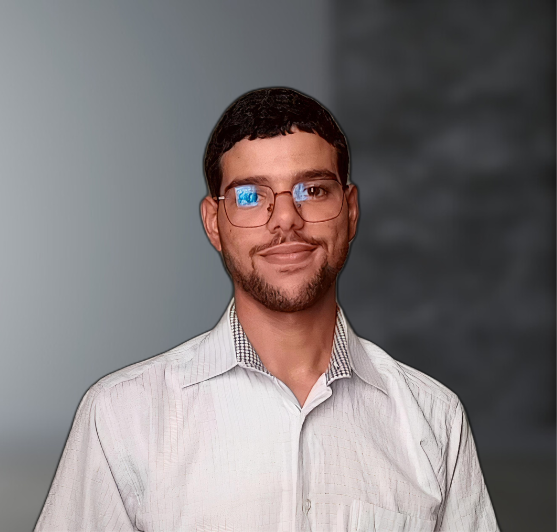
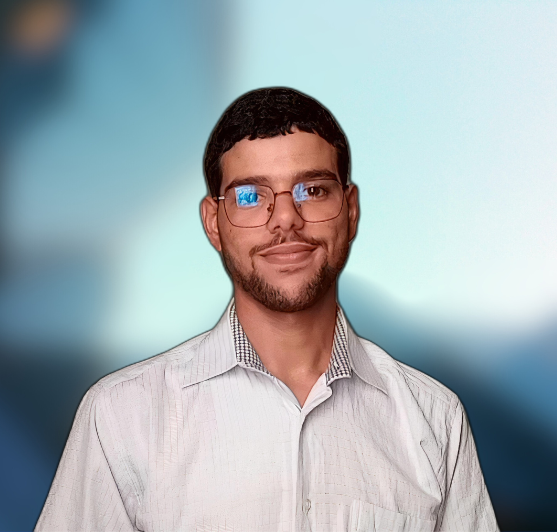
some changes

diff --git a/src/components/Projects.jsx b/src/components/Projects.jsx
@@ -1,9 +1,67 @@
-import React from 'react'
+import React from "react";
+
+const projects = [
+  {
+    title: "AI Desktop Assistant",
+    description: "Voice-enabled AI assistant built with Python, PyQt, and DeepSeek API.",
+    tech: ["Python", "PyQt5", "SpeechRecognition", "TTS"],
+  },
+  {
+    title: "Real Estate Web App",
+    description: "Full-stack platform for listing, searching, and chatting about properties.",
+    tech: ["React", "Laravel", "Node.js", "MongoDB"],
+  },
+  {
+    title: "E-Commerce Admin Dashboard",
+    description: "Dynamic dashboard to manage content, users, and orders with charts.",
+    tech: ["React", "Laravel", "Inertia.js", "Tailwind CSS"],
+  },
+  {
+    title: "Code Collaboration Platform",
+    description: "Real-time collaborative coding interface with Git integration and AI help.",
+    tech: ["React", "Python", "Socket.io", "Framer Motion"],
+  },
+  {
+    title: "Background Remover Tool",
+    description: "Drag-and-drop tool for removing image backgrounds using Python.",
+    tech: ["Python", "rembg", "Flask", "React"],
+  },
+  {
+    title: "Chat App with Laravel Auth",
+    description: "MERN stack chat app where Laravel handles authentication.",
+    tech: ["React", "Express", "MongoDB", "Laravel"],
+  },
+];
 
 function Projects() {
   return (
-    <div className='min-h-screen'>Projects</div>
-  )
+    <div className="relative min-h-screen px-6  bg-white overflow-hidden">
+      <div className="relative z-10 max-w-6xl mx-auto">
+        
+        <div className="grid grid-cols-1 md:grid-cols-2 lg:grid-cols-3 gap-8">
+          {projects.map((project, index) => (
+            <div
+              key={index}
+              className="bg-white rounded-2xl shadow-lg p-6 border border-red-100 hover:shadow-blue-300 transition duration-300"
+            >
+              <h3 className="text-xl font-semibold text-blue-600 mb-2">{project.title}</h3>
+              <p className="text-gray-700 mb-4">{project.description}</p>
+              <div className="flex flex-wrap gap-2">
+                {project.tech.map((tech, i) => (
+                  <span
+                    key={i}
+                    className="text-xs px-2 py-1 bg-blue-100 text-blue-600 rounded-full"
+                  >
+                    {tech}
+                  </span>
+                ))}
+              </div>
+            </div>
+          ))}
+        </div>
+      </div>
+    </div>
+  );
 }
 
-export default Projects
+export default Projects;

diff --git a/src/App.jsx b/src/App.jsx
@@ -8,15 +8,12 @@ import { skills_1 } from "./constants/skills_1.js";
 import { skills_2 } from "./constants/skills_2.js";
 import FadeInWhenVisible from "./components/FadeInWhenVisible";
 import Projects from "./components/Projects.jsx";
+import AnimatedBg from "./assets/AnimatedBg.jsx";
 
 function App() {
   return (
-    <div
-      className="relative min-h-screen w-full bg-fixed bg-cover bg-center"
-      style={{
-        backgroundImage: "url('/bg.jpg')",
-      }}
-    >
+    <div className="relative min-h-screen w-full bg-fixed bg-cover bg-center">
+      <AnimatedBg />
       <header className="fixed top-0 right-0 bg-transparent z-50 w-full">
         <NavBar />
       </header>
@@ -34,7 +31,7 @@ function App() {
       </main>
 
       <FadeInWhenVisible delay={0.3}>
-        <section className="py-4 w-full bg-white">
+        <section className="py-4 w-full ">
           <div className="h-1 w-8 bg-gray-300 mx-auto mb-6"></div>
           <h2 className="text-2xl font-bold mb-6 text-center">My Skills</h2>
           <Skills skills={skills_1} dir={true} />
@@ -42,9 +39,13 @@ function App() {
         </section>
       </FadeInWhenVisible>
       <FadeInWhenVisible delay={0.3}>
-        <Projects/>
+        <section className="py-8 w-full ">
+          <div className="h-1 w-8 bg-gray-300 mx-auto mb-6"></div>
+          <h2 className="text-2xl font-bold mb-6 text-center">My Projects</h2>
+          <Projects />
+        </section>
       </FadeInWhenVisible>
-        <Navigation />
+      <Navigation />
     </div>
   );
 }

diff --git a/src/index.css b/src/index.css
@@ -1,1 +1,55 @@
 @import "tailwindcss";
+
+
+
+.animated-net {
+  position: fixed;
+  top: 0;
+  left: 0;
+  z-index: -1;
+  width: 100vw;
+  height: 100vh;
+  pointer-events: none;
+  background-color: #ffffff;
+
+  background-image:
+    linear-gradient(90deg, rgba(0, 191, 255, 0.253) 1px, transparent 1px),
+    linear-gradient(rgba(0, 191, 255, 0.1) 1px, transparent 1px);
+  background-size: 50px 50px;
+  overflow: hidden;
+}
+
+.animated-net::after {
+  content: "";
+  position: absolute;
+  width: 400%;
+  height: 400%;
+  top: -150%;
+  left: -150%;
+
+  background-image:
+    linear-gradient(90deg, rgba(255, 0, 0, 0.6) 1px, transparent 1px),
+    linear-gradient(rgba(255, 0, 0, 0.6) 1px, transparent 1px);
+  background-size: 50px 50px;
+  animation: flowingGrid 3s linear infinite;
+  mix-blend-mode: lighten;
+  opacity: 1;
+}
+
+@keyframes flowingGrid {
+  0% {
+    transform: translate(0%, 0%);
+  }
+  25% {
+    transform: translate(50%, 30%);
+  }
+  50% {
+    transform: translate(70%, 60%);
+  }
+  75% {
+    transform: translate(30%, 80%);
+  }
+  100% {
+    transform: translate(0%, 0%);
+  }
+}

diff --git a/src/components/HeroSection.jsx b/src/components/HeroSection.jsx
@@ -6,8 +6,8 @@ function HeroSection() {
   return (
     <div className="min-h-screen w-full flex items-start justify-center text-center px-4 relative ">
       <div className="max-w-3xl ">
-        <div className="flex justify-center mb-8">
-          <img src="/logo.png" alt="logo" className="w-32 h-32 rounded-full" />
+        <div className="flex justify-center">
+          <img src="/ES.png" alt="logo" className="w-56 rounded-full drop-shadow-sm" />
         </div>
         <div className="flex flex-col items-center justify-center text-center mb-6 space-y-4">
           <h1 className="text-5xl md:text-7xl font-black text-transparent bg-clip-text bg-gradient-to-r from-blue-600 to-blue-400 drop-shadow-lg">

diff --git a/src/constants/skills_2.js b/src/constants/skills_2.js
@@ -1,5 +1,4 @@
 export const skills_2 = [
-      { name: "Python", image: "https://img.icons8.com/?size=100&id=13441&format=png&color=000000" },
       { name: "Laravel", image: "https://img.icons8.com/?size=100&id=hUvxmdu7Rloj&format=png&color=000000" },
       { name: "React", image: "https://img.icons8.com/?size=100&id=NfbyHexzVEDk&format=png&color=000000" },
       { name: "Git", image: "https://img.icons8.com/?size=100&id=20906&format=png&color=000000" },

diff --git a/src/components/Skills.jsx b/src/components/Skills.jsx
@@ -39,7 +39,7 @@ function Skills({ dir = true, skills = [] }) {
         className="container mx-auto px-2 flex justify-center items-center space-x-2"
       >
         {skills.map((skill, index) => (
-          <div key={index} className="px-2">
+          <div key={index} className="px-2 hover:scale-105 transition">
             <div className=" rounded-lg p-2 text-center">
               <img
                 src={skill.image}

diff --git a/src/components/Profile.jsx b/src/components/Profile.jsx
@@ -2,7 +2,7 @@ import React from "react";
 
 function Profile() {
   return (
-    <div className="max-h-screen w-full  bg-white mx-auto rounded-xl text-center relative -top-20 shadow-xl  p-8 flex flex-col items-center">
+    <div className="max-h-screen w-full  mx-auto rounded-xl text-center relative -top-20 p-8 flex flex-col items-center">
       <img
         src="/cv-pic-v2-28-07-25.jpg"
         alt="Profile"

diff --git a/src/components/Logo.jsx b/src/components/Logo.jsx
@@ -7,7 +7,7 @@ function Logo() {
       to="/"
       className="text-xl font-bold "
     >
-      <h1 className="text-blue-600 flex flex-col items-center">
+      <h1 className="text-blue-600 flex flex-col lg:items-start items-center">
         <span>ELGHABA.SAAD</span>
         <span className="text-xs text-gray-400 ">saadlraba@gmail.com</span>
       </h1>

diff --git a/src/components/SocialBar.jsx b/src/components/SocialBar.jsx
@@ -31,7 +31,7 @@ function SocialBar() {
         className="text-white hover:text-gray-200"
       >
         <img
-          src="https://img.icons8.com/?size=100&id=qyRpAggnV0zH&format=png&color=000000"
+          src="https://img.icons8.com/?size=100&id=12623&format=png&color=000000"
           alt=""
           className="w-6 h-6"
         />

diff --git a/src/assets/AnimatedBg.jsx b/src/assets/AnimatedBg.jsx
@@ -1,0 +1,7 @@
+import React from "react";
+
+const AnimatedBg = () => {
+  return <div className="animated-net"></div>;
+};
+
+export default AnimatedBg;
